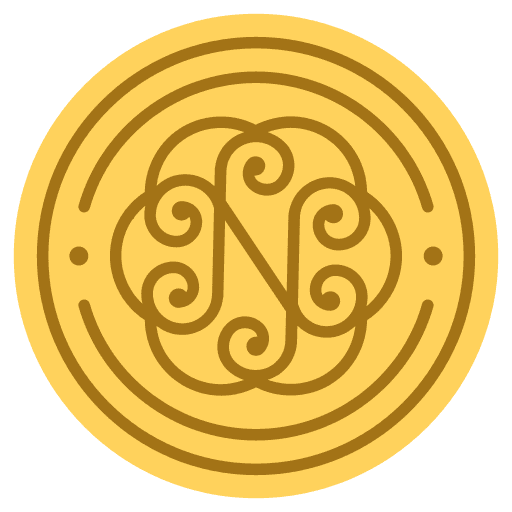
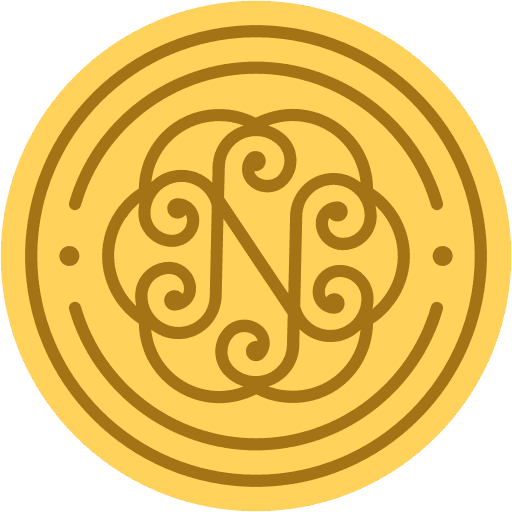
fix(pwa): aplica ícones instalados amarelos e selo transparente no Mac

diff --git a/surfaces/storefront-nuxt/server/utils/pwaManifest.ts b/surfaces/storefront-nuxt/server/utils/pwaManifest.ts
@@ -28,8 +28,12 @@ export function shortPwaName (shop: PwaShopSource): string {
     .trimEnd()
 }
 
-export function buildStorefrontManifest (shop: PwaShopSource = {}) {
+export function buildStorefrontManifest (shop: PwaShopSource = {}, userAgent = '') {
   const name = textOrFallback(shop.brand_name, STOREFRONT_PWA_FALLBACK.brand_name)
+
+  // Chrome on macOS prefers maskable icons and adds a plate around the seal.
+  // Keep Android adaptive icons, but offer the transparent seal on Mac.
+  const macDesktop = /Macintosh|Mac OS X/i.test(userAgent) && !/Mobile|iPhone|iPad/i.test(userAgent)
 
   return {
     id: '/',
@@ -46,16 +50,16 @@ export function buildStorefrontManifest (shop: PwaShopSource = {}) {
     theme_color: textOrFallback(shop.theme_color, STOREFRONT_PWA_FALLBACK.theme_color),
     background_color: textOrFallback(shop.background_color, STOREFRONT_PWA_FALLBACK.background_color),
     icons: [
-      { src: '/pwa/pwa-64x64.png', sizes: '64x64', type: 'image/png', purpose: 'any' },
-      { src: '/pwa/pwa-192x192.png', sizes: '192x192', type: 'image/png', purpose: 'any' },
-      { src: '/pwa/pwa-512x512.png', sizes: '512x512', type: 'image/png', purpose: 'any' },
-      { src: '/pwa/maskable-512x512.png', sizes: '512x512', type: 'image/png', purpose: 'maskable' },
+      { src: '/pwa/pwa-64x64.png?v=2', sizes: '64x64', type: 'image/png', purpose: 'any' },
+      { src: '/pwa/pwa-192x192.png?v=2', sizes: '192x192', type: 'image/png', purpose: 'any' },
+      { src: '/pwa/pwa-512x512.png?v=2', sizes: '512x512', type: 'image/png', purpose: 'any' },
+      ...(!macDesktop ? [{ src: '/pwa/maskable-512x512.png?v=2', sizes: '512x512', type: 'image/png', purpose: 'maskable' }] : []),
       { src: '/pwa/monochrome-512x512.png', sizes: '512x512', type: 'image/png', purpose: 'monochrome' }
     ],
     shortcuts: [
-      { name: 'Cardápio', short_name: 'Cardápio', url: '/menu', icons: [{ src: '/pwa/pwa-192x192.png', sizes: '192x192' }] },
-      { name: 'Sacola', short_name: 'Sacola', url: '/sacola', icons: [{ src: '/pwa/pwa-192x192.png', sizes: '192x192' }] },
-      { name: 'Meus pedidos', short_name: 'Pedidos', url: '/conta', icons: [{ src: '/pwa/pwa-192x192.png', sizes: '192x192' }] }
+      { name: 'Cardápio', short_name: 'Cardápio', url: '/menu', icons: [{ src: '/pwa/pwa-192x192.png?v=2', sizes: '192x192' }] },
+      { name: 'Sacola', short_name: 'Sacola', url: '/sacola', icons: [{ src: '/pwa/pwa-192x192.png?v=2', sizes: '192x192' }] },
+      { name: 'Meus pedidos', short_name: 'Pedidos', url: '/conta', icons: [{ src: '/pwa/pwa-192x192.png?v=2', sizes: '192x192' }] }
     ],
     screenshots: [
       { src: '/pwa/screenshots/home-narrow.png', sizes: '1080x1920', type: 'image/png', form_factor: 'narrow', label: 'Início da Nelson Boulangerie' },

diff --git a/surfaces/storefront-nuxt/pwa-assets.config.ts b/surfaces/storefront-nuxt/pwa-assets.config.ts
@@ -13,21 +13,22 @@ export default defineConfig({
     ...minimal2023Preset,
     transparent: {
       ...minimal2023Preset.transparent,
+      padding: 0,
       favicons: [[48, `${output}favicon.ico`]]
     },
     maskable: {
       ...minimal2023Preset.maskable,
-      padding: 0.3,
-      resizeOptions: { fit: 'contain', background: '#FCF7EE' }
+      padding: 0.2,
+      resizeOptions: { fit: 'contain', background: '#FFD25C' }
     },
     apple: {
       ...minimal2023Preset.apple,
-      padding: 0,
-      resizeOptions: { fit: 'contain', background: 'transparent' }
+      padding: 0.02,
+      resizeOptions: { fit: 'contain', background: '#FFD25C' }
     },
     assetName: (type, size) => {
       if (type === 'maskable') return `${output}maskable-${size.width}x${size.height}.png`
-      if (type === 'apple') return `${output}apple-touch-icon-transparent-${size.width}x${size.height}.png`
+      if (type === 'apple') return `${output}apple-touch-icon-${size.width}x${size.height}.png`
       return `${output}pwa-${size.width}x${size.height}.png`
     }
   }

diff --git a/surfaces/storefront-nuxt/tests/pwaManifest.test.ts b/surfaces/storefront-nuxt/tests/pwaManifest.test.ts
@@ -30,6 +30,15 @@ describe('storefront PWA manifest', () => {
     ]))
   })
 
+  it('offers transparent icons on Mac without removing Android adaptive icons', () => {
+    const mac = buildStorefrontManifest({}, 'Mozilla/5.0 (Macintosh; Intel Mac OS X 10_15_7) Chrome/153.0.0.0 Safari/537.36')
+    expect(mac.icons.some(icon => icon.purpose === 'maskable')).toBe(false)
+    expect(mac.icons.some(icon => icon.purpose === 'any' && icon.sizes === '512x512')).toBe(true)
+    for (const ua of ['Mozilla/5.0 (Linux; Android 15)', 'Mozilla/5.0 (iPhone; CPU iPhone OS 18_0 like Mac OS X) Mobile/15E148', 'Mozilla/5.0 (Macintosh; Intel Mac OS X 10_15) Mobile/15E148']) {
+      expect(buildStorefrontManifest({}, ua).icons.some(icon => icon.purpose === 'maskable')).toBe(true)
+    }
+  })
+
   it('truncates brand_name to twelve characters when short_name is absent', () => {
     const manifest = buildStorefrontManifest({
       brand_name: 'Boulangerie de Quartier',

diff --git a/surfaces/storefront-nuxt/tests/e2e/pwa.spec.ts b/surfaces/storefront-nuxt/tests/e2e/pwa.spec.ts
@@ -19,7 +19,7 @@ test('manifesto, service worker e metadados iOS são servidos pelo build', async
 
   await page.goto('/')
   await expect(page.locator('link[rel="manifest"]')).toHaveAttribute('href', '/manifest.webmanifest')
-  await expect(page.locator('link[rel="apple-touch-icon"]')).toHaveAttribute('href', '/pwa/apple-touch-icon-transparent-180x180.png')
+  await expect(page.locator('link[rel="apple-touch-icon"]')).toHaveAttribute('href', '/pwa/apple-touch-icon-180x180.png')
   await expect(page.locator('link[rel="apple-touch-startup-image"]')).toHaveCount(40)
 })
 

diff --git a/surfaces/storefront-nuxt/server/routes/manifest.webmanifest.ts b/surfaces/storefront-nuxt/server/routes/manifest.webmanifest.ts
@@ -1,4 +1,5 @@
 import {
+  getRequestHeader,
   setResponseHeaders,
   type H3Event
 } from 'h3'
@@ -25,8 +26,9 @@ async function publicShop (event: H3Event): Promise<PwaShopSource> {
 
 export default defineEventHandler(async (event) => {
   setResponseHeaders(event, {
+    vary: 'User-Agent',
     'cache-control': 'public, max-age=3600',
     'content-type': 'application/manifest+json; charset=utf-8'
   })
-  return buildStorefrontManifest(await publicShop(event))
+  return buildStorefrontManifest(await publicShop(event), getRequestHeader(event, 'user-agent'))
 })

diff --git a/surfaces/storefront-nuxt/nuxt.config.ts b/surfaces/storefront-nuxt/nuxt.config.ts
@@ -72,7 +72,7 @@ export default defineNuxtConfig({
         { rel: 'manifest', href: '/manifest.webmanifest' },
         { rel: 'icon', href: '/pwa/favicon.svg', type: 'image/svg+xml' },
         { rel: 'icon', href: '/pwa/favicon.ico', sizes: 'any' },
-        { rel: 'apple-touch-icon', href: '/pwa/apple-touch-icon-transparent-180x180.png' },
+        { rel: 'apple-touch-icon', href: '/pwa/apple-touch-icon-180x180.png' },
         ...appleStartupLinks
       ]
     }

diff --git a/surfaces/storefront-nuxt/README.md b/surfaces/storefront-nuxt/README.md
@@ -93,6 +93,13 @@ SVG: todo o símbolo precisa continuar dentro da zona segura central de 80%. A
 saída é versionada; o comando deve ser executado e o diff conferido antes do
 commit.
 
+Os ícones `any` usam o selo circular sem margem adicional e com transparência.
+No Mac, o manifesto omite `maskable` para o Chrome selecionar esse selo; a
+resposta varia por `User-Agent`. O ícone Apple é opaco, amarelo `#FFD25C`, com
+98% de ocupação. O adaptativo Android usa o mesmo amarelo com 80% de ocupação,
+preservando a zona segura contra recortes do launcher. Ícones já instalados
+precisam receber a atualização do navegador; validar também uma instalação nova.
+
 O gate completo da fase parte da raiz do repositório:
 
 ```bash
